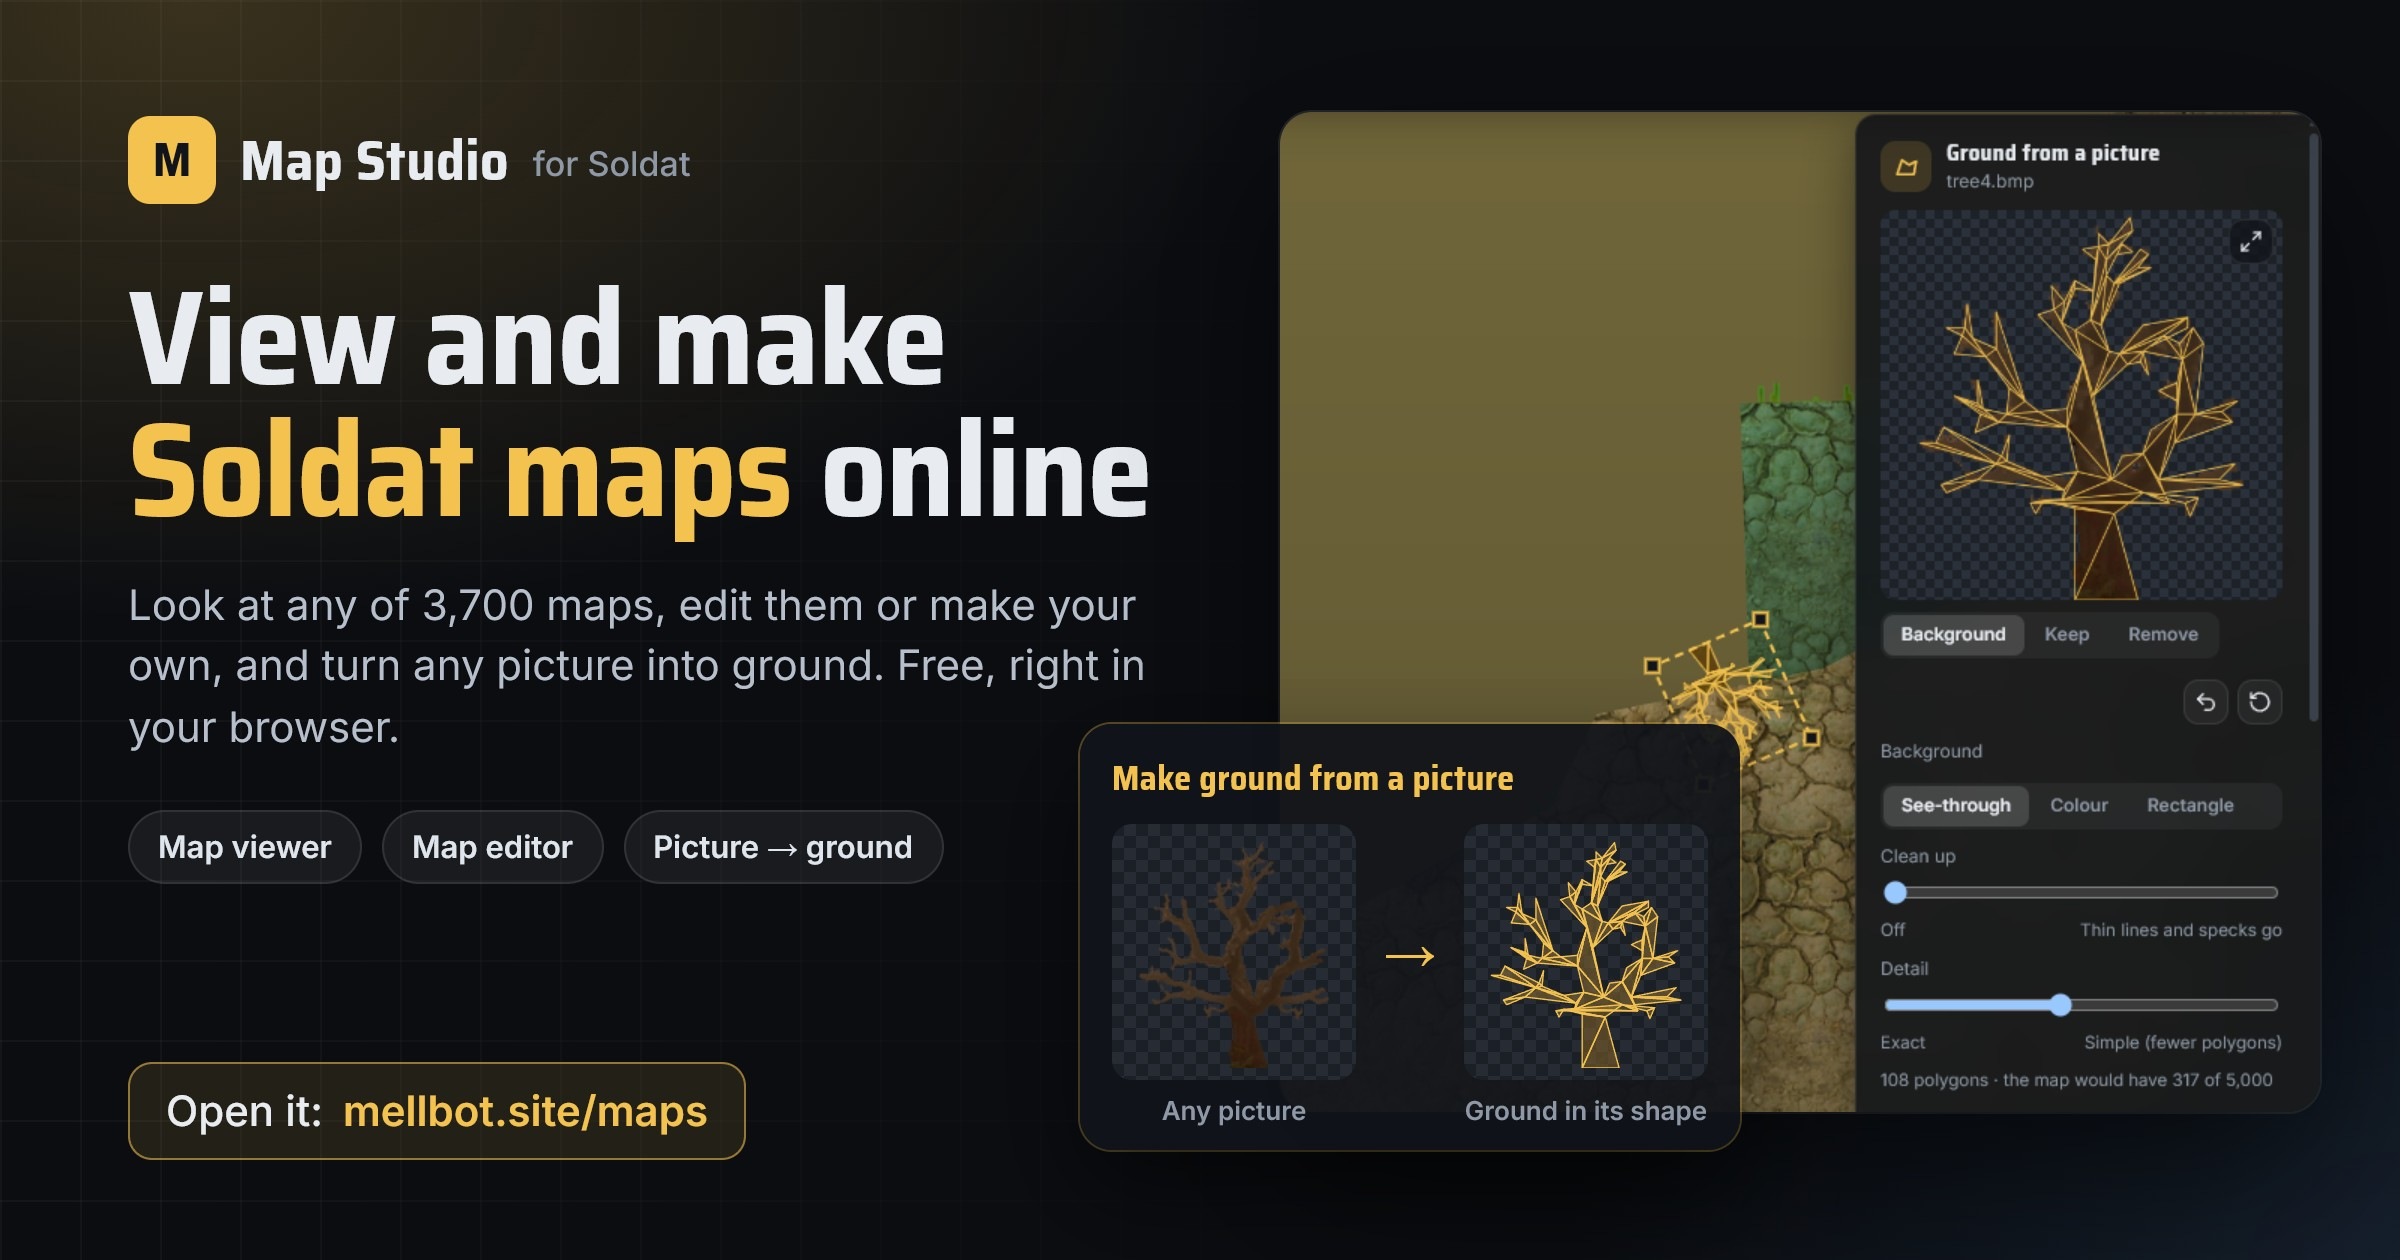
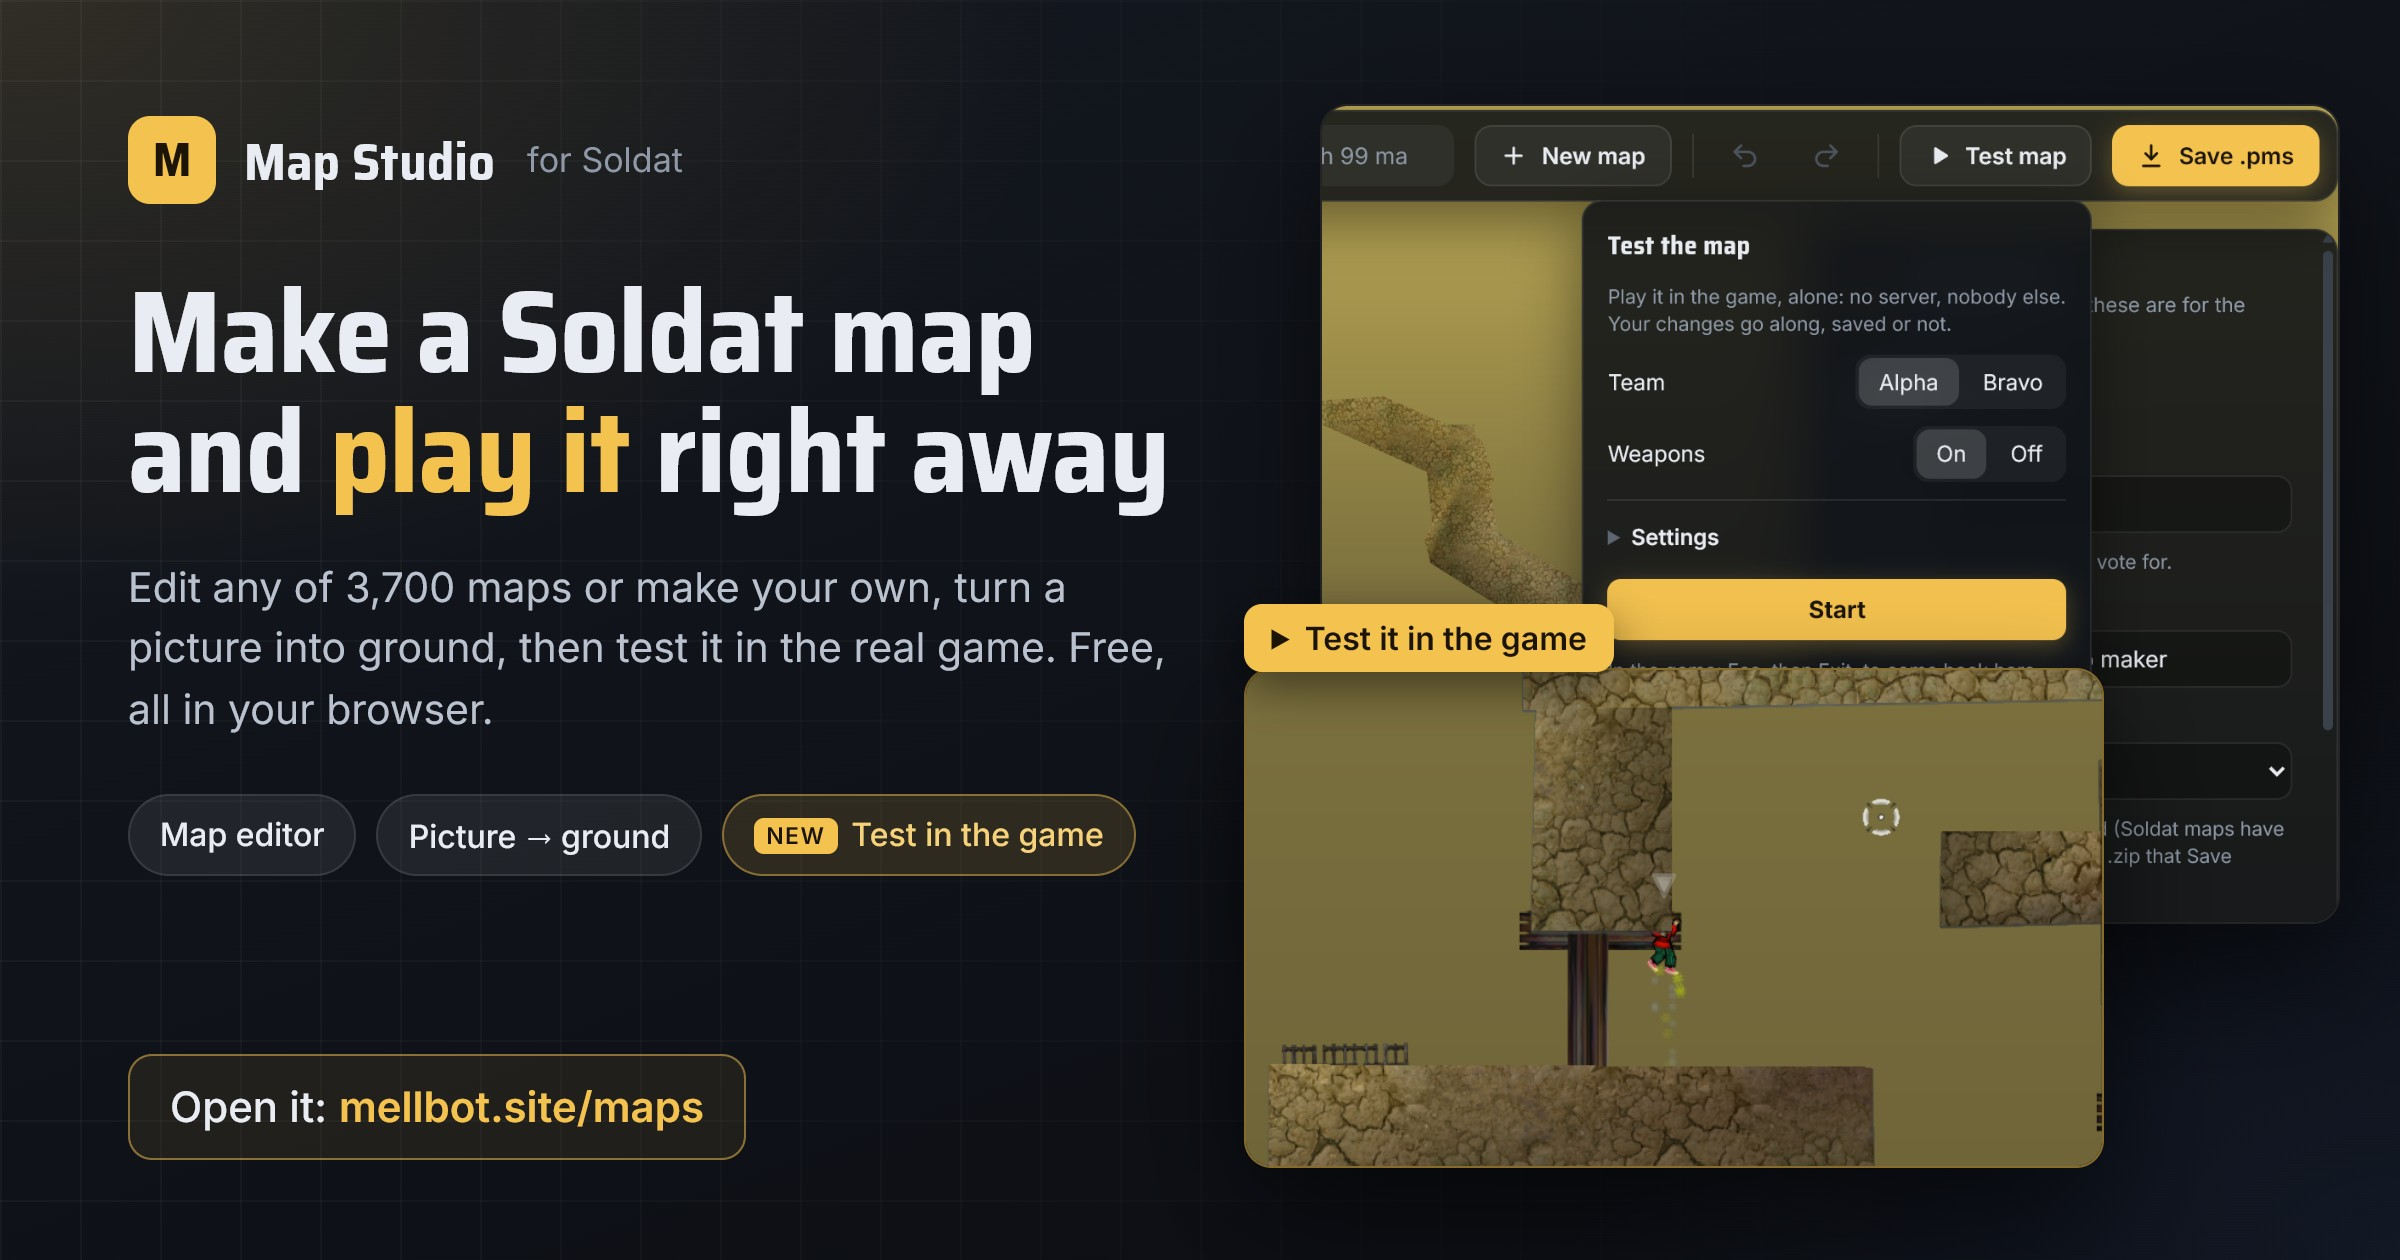
Add files via upload

diff --git a/README.md b/README.md
@@ -1,15 +1,52 @@
 # Soldat Map Studio
 
-**View and make Soldat maps online.** A free map viewer and editor for Soldat, right in your
-browser: look at any of 3,700 maps, edit them or make your own, turn any picture into ground, and
-save a `.pms` that plays in Soldat 1.7.1. No download, no install.
+**Make Soldat maps and play them in your browser.** A free map viewer and editor for Soldat, right
+in your browser: look at any of 3,700 maps, edit them or make your own, turn any picture into
+ground, **test the map in the real game without leaving the page**, and save a `.pms` that plays in
+Soldat 1.7.1. No download, no install.
 
 ### ▶ Open it: **[mellbot.site/maps](https://mellbot.site/maps)**
 
-[![Map Studio: view and make Soldat maps online](docs/screenshots/00-card.jpg)](https://mellbot.site/maps)
+[![Map Studio: make Soldat maps and play them in your browser](docs/screenshots/00-card.jpg)](https://mellbot.site/maps)
 
 Made by **mellbot.site**. This repository is the guide and a showcase: Map Studio itself is not
 open source (see [Copyright](#copyright)).
+
+---
+
+## 🎮 New: test your map in the browser
+
+Press **Test map** and you're in the game, on the map you're making, with your changes, saved
+or not. It's Soldat itself running in the page: same physics, same weapons, same jets. Run the
+route, try the jumps, check the spawns, then press **Esc → Exit** and keep editing where you
+left off.
+
+- **Pick a team and weapons**: Alpha or Bravo, weapons on or off.
+- **Settings**: mouse sensitivity, volume, full screen, and your own **controls** (set them once,
+  they're remembered).
+- **Alone**: no server, nobody else. Nothing you test is sent anywhere.
+- **Best looks**: smooth textures and edges, moving scenery and the map's weather, filling the
+  whole window whatever its shape.
+
+![The Test panel](docs/screenshots/08-test-panel.png)
+
+**Commands in the game** (type **/help** to see them):
+
+| Command | What it does |
+|---|---|
+| `/god` | Nothing can kill you: deadly ground shows "You died", but you keep going |
+| `/fly` | The flag throw key takes you to the pointer |
+| `/kill` | Start again |
+| `/showpoly` | Show the ground types in colour |
+| `/scenery` | Scenery on or off |
+| `/smooth` | Smooth polygon edges on or off |
+| `/spec` | Spectate: fly around the map with the mouse |
+| `/red` · `/blue` · `/join` | Play again (on a team map: red or blue) |
+| `/shutdown` | Back to the editor (as Esc, Exit) |
+
+Press **T** to see all the messages.
+
+![Testing a map in the game](docs/screenshots/09-test-game.png)
 
 ---
 
@@ -29,6 +66,10 @@ It works with transparent PNGs, Soldat's green-background BMPs, and even JPGs an
 plain background (it removes the background colour). Fix anything by hand on the preview, zoomed
 in as far as you like.
 
+**Pictures that work best**: side-view game art with a see-through background (platforms, rocks,
+cliffs, islands, silhouettes), or a solid shape on one plain colour, with sharp edges. Photos with
+busy backgrounds, soft shadows and thin lines work less well.
+
 ![Making ground from a picture](docs/screenshots/06-ground-from-picture.png)
 
 ---
@@ -42,8 +83,12 @@ in as far as you like.
   and click a polygon to see everything about it.
 - **Make maps**: draw ground, paint ground types and colours, place scenery, spawns, flags, items
   and colliders, then save a `.pms` that works in Soldat 1.7.1.
+- **Test them**: play the map in the game, in the same page, at any moment.
+- **Pixel perfect**: a grid down to 1 map unit, snapping to the grid and to other corners,
+  exact X / Y boxes, and the position shown live while you drag.
 - **Make ground from a picture**: pick a scenery picture and the studio cuts polygons in its shape,
   even from photos with a plain background.
+- **Copy and paste**: between places in a map, or from one map into another.
 - **Your own pictures and textures**: add them from your computer; the map is then saved as a
   `.zip` with everything it needs.
 - **Your files stay with you**: the maps and pictures you open stay in your browser. When you save,
@@ -64,7 +109,9 @@ in as far as you like.
 ### 2. Look around
 - Drag to move, use the mouse wheel to zoom, and press **Fit** (or **F**) to see the whole map.
 - The panel on the right (**What to show**) switches the background, polygons, textures, scenery
-  levels, spawn points, colliders and wireframe on and off.
+  levels, spawn points, colliders and wireframe on and off. In Edit, the same **The map** switches
+  are at the top of **Map settings**. What is switched off can't be clicked or selected, and
+  **Ctrl+A** leaves it out.
 - Under **Ground types in this map**, click a type to light it up, or **Light all**.
 
 ### 3. Edit
@@ -72,7 +119,7 @@ Press **Edit** at the top, or **Edit a copy** on the map card. Then pick a tool 
 
 | Tool | Key | What it does |
 |---|---|---|
-| **Select** | V | Click to select, drag around things to select several. Drag to move, drag a corner to reshape. |
+| **Select** | V | Click to select, drag around things to select several. Drag to move, drag a corner to reshape. **Corners** (K) selects single corners of polygons. |
 | **Draw** | D | Draw ground: **Box**, **Free** shape, **Ramp** or **Spike**, with its ground type and colour. |
 | **Type** | T | Paint the ground type: click or drag over polygons. |
 | **Colour** | C | Paint colours on whole polygons, or on corners for smooth light and shadow. |
@@ -81,19 +128,42 @@ Press **Edit** at the top, or **Edit a copy** on the map card. Then pick a tool 
 | **Collider** | O | Invisible circles that stop bullets. |
 | **Hand** | H | Move around the map (or hold Space). |
 
+**Ctrl + drag works with every tool**: it moves the one thing under the pointer, without
+leaving the tool you're using.
+
 ![Selecting and resizing](docs/screenshots/03-edit-select.png)
 
 **With something selected** (Select tool), the panel and the right-click menu have:
-- **Duplicate** and **Delete**
+- **Duplicate**, **Copy** and **Delete** (paste with **Ctrl+V**, in this map or another)
+- **X** and **Y**: the exact place of a spawn point, collider or scenery item (or of the corners
+  selected), to read or type in
+- **Snap to**: **Grid** and **Corners**, on or off
 - **Arrange**: bring to front, bring forward, send backward, send to back
 - **Turn and flip**: rotate 180°, 90° either way, flip horizontally or vertically
 - **Size**: ½, −10%, +10%, ×2, or drag a corner of the dashed box around the selection
 - **Colour**: copy a colour from anything on the map with the pipette, then **Paint the selection**
 - The ground type, scenery level (Back / Middle / Front), opacity, size and turn
 
+**With nothing selected**, **Map settings** has the map's name, description, texture,
+background colours and gameplay settings, with one-click jet fuel amounts (**None** to
+**Infinite**).
+
+### 4. Draw, on the grid
+The **Grid** button by the zoom shows the grid. In the **Draw** panel's **Helpers**:
+- **Snap to other corners** and **Snap to grid**: new corners, moved things, spawns, colliders and
+  scenery land on corners near them or on the grid. When you move polygons, the corner nearest to
+  where you grabbed them lands on the grid, and any moving corner sticks to a corner it meets.
+- **Square size**: any size from **1** map unit (as fine as Soldat allows) to 256, or one click on
+  1, 4, 8, 16, 32 or 64.
+- **Strong line every**: a stronger line every so many squares (1 = none).
+- **Grid lines**: their colour and how strong they are.
+
+The bar at the bottom shows where the pointer is, and while you drag, where the thing lands and
+how far it moved (a box's size while you draw one).
+
 ![Drawing ground](docs/screenshots/04-draw.png)
 
-### 4. Scenery and your own pictures
+### 5. Scenery and your own pictures
 In the **Scenery** tool, browse **In this map**, **All** pictures or **Yours**. **+ Add your own
 pictures** takes `.png`, `.bmp`, `.jpg` or `.gif` from your computer. Drag a corner of a placed
 picture to resize it.
@@ -103,7 +173,7 @@ Scenery has three levels, as in the game: **Back** (behind the ground and the pl
 
 ![The scenery browser](docs/screenshots/05-scenery.png)
 
-### 5. Ground from a picture
+### 6. Ground from a picture
 Select one scenery picture and press **Make ground from this picture**. The gold lines show the
 polygons before anything is added.
 
@@ -121,7 +191,11 @@ Undo (↶) takes back any change; Start over (↺) goes back to the first result
 
 ![Working on the picture big](docs/screenshots/07-picture-big.png)
 
-### 6. Save and play
+### 7. Test it
+Press **Test map** at the top: pick a team, weapons on or off, and **Start**. See
+[Test your map in the browser](#-new-test-your-map-in-the-browser).
+
+### 8. Save and play
 Press **Save .pms** (or **Ctrl+S**). Put the file in Soldat's `maps` folder, or on your server.
 A map that uses your own pictures saves as a **.zip** (`maps/`, `scenery-gfx/`, `textures/`):
 unzip it into the Soldat folder.
@@ -130,13 +204,19 @@ unzip it into the Soldat folder.
 
 ## Keyboard shortcuts
 
+All of them are in the studio too: press **?**, or the keyboard button by the zoom. On a Mac,
+Cmd works as Ctrl.
+
 | Keys | Does |
 |---|---|
-| V D T C S P O H | Select, Draw, Type, Colour, Scenery, Spawns, Collider, Hand |
-| Ctrl+Z / Ctrl+Y | Undo / redo |
-| Ctrl+S | Save |
+| V K D T C S P O H | Select, Corners on/off, Draw, Type, Colour, Scenery, Spawns, Collider, Hand |
+| Ctrl + drag | Move the one thing under the pointer, with any tool |
+| Shift + click | Add to the selection, or take away |
+| Ctrl+A | Select all you can see |
+| Ctrl+Z / Ctrl+Y (or Ctrl+Shift+Z) | Undo / redo |
+| Ctrl+C / Ctrl+X / Ctrl+V | Copy / cut / paste (also into another map) |
 | Ctrl+D | Duplicate |
-| Ctrl+A | Select all |
+| Ctrl+S | Save |
 | Delete | Delete what is selected |
 | Arrow keys (Shift = 10) | Nudge |
 | R / Shift+R | Rotate 90° clockwise / counter-clockwise |
@@ -144,9 +224,11 @@ unzip it into the Soldat folder.
 | ] / [ | Bring forward / send backward |
 | Shift+] / Shift+[ | Bring to front / send to back |
 | I, or Alt+click | Copy a colour from the map |
+| Enter, Backspace | Free shape: finish it, take the last corner back |
 | + / − | Zoom in / out |
 | F (nothing selected) | Show the whole map |
 | Esc | Close, cancel, or clear the selection |
+| ? | All the shortcuts |
 
 ---
 
